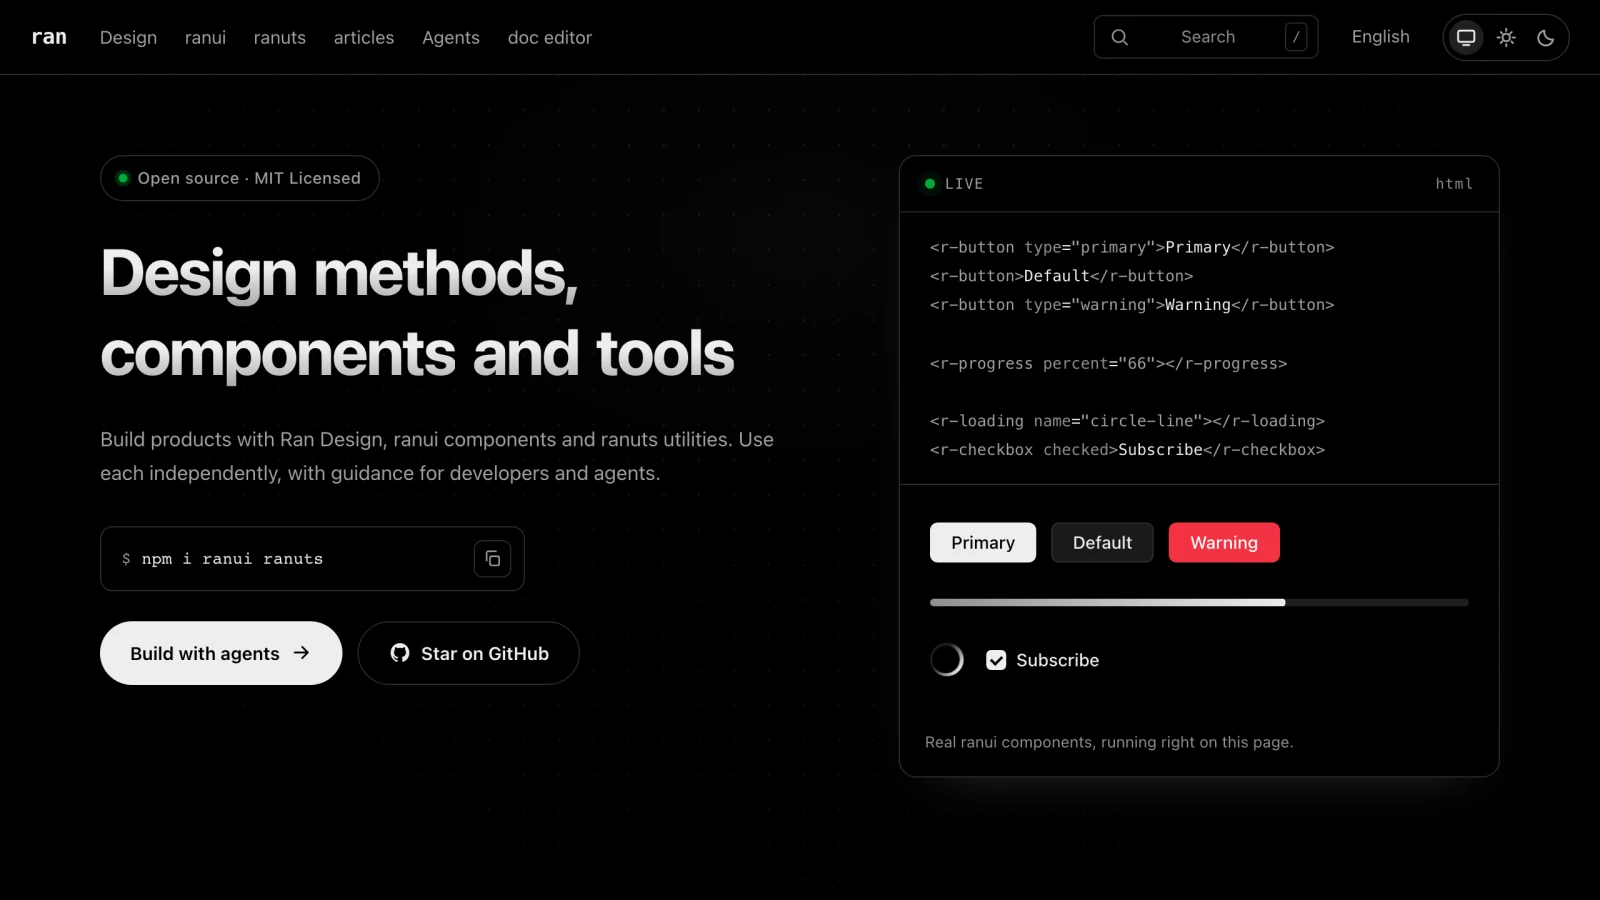
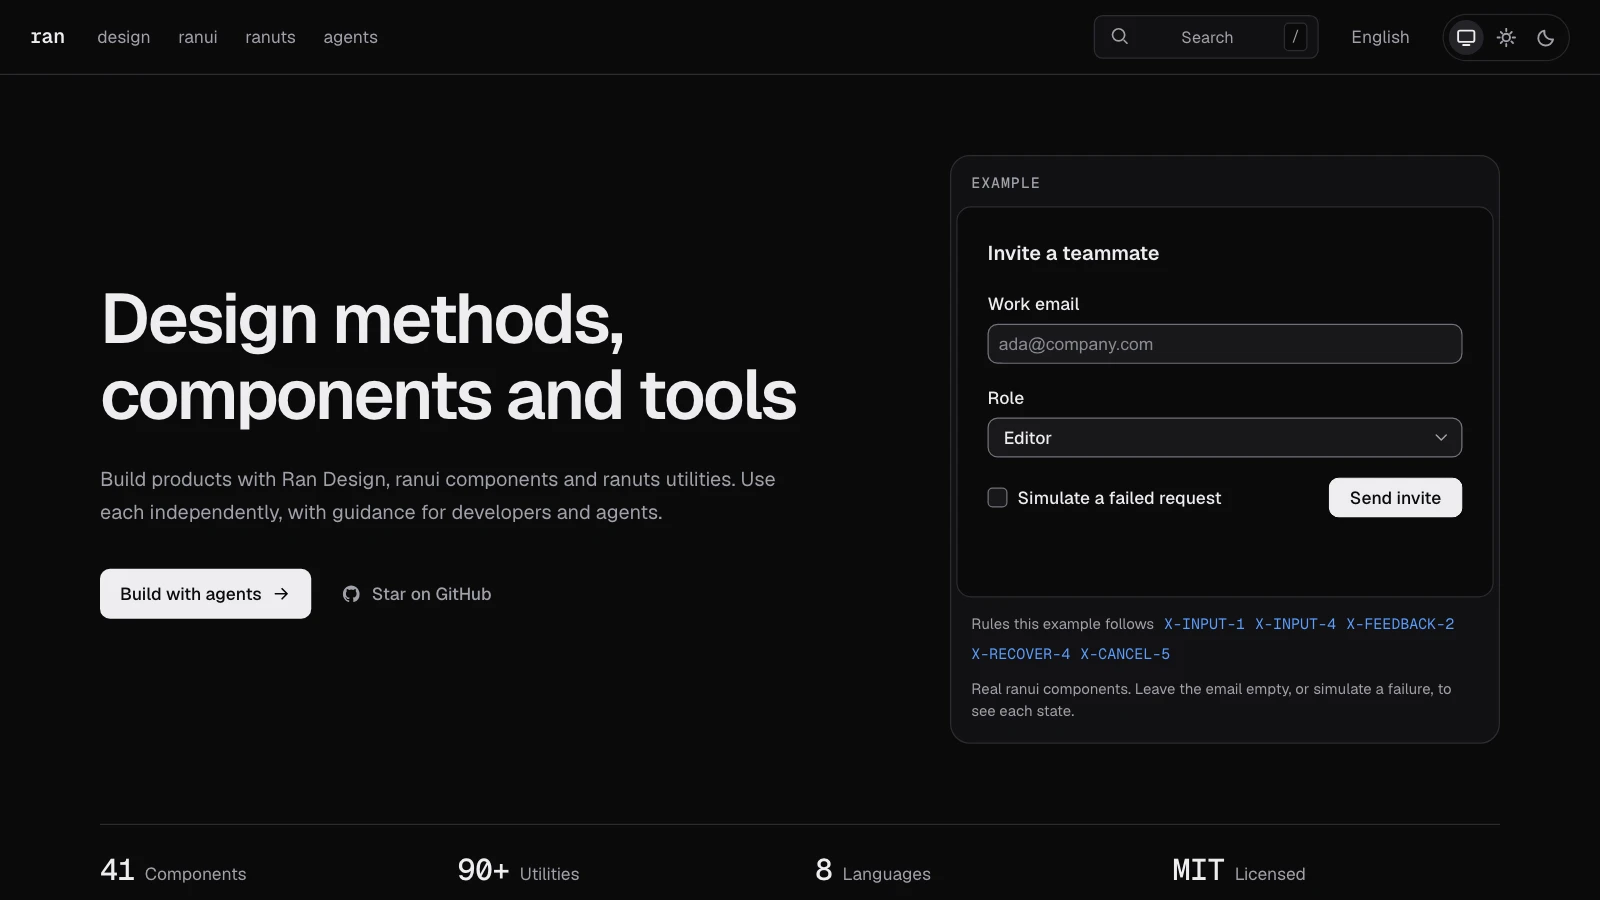
docs: refresh the README home screenshot (#482)
The light and dark captures showed the old landing (mixed-case nav and a
markup-beside-preview panel). They now show the current page, with its
live invite form, and the alt text in all eight READMEs describes it.

diff --git a/README.fa.md b/README.fa.md
@@ -28,7 +28,7 @@ ran سه بخش دارد که هر کدام جداگانه قابل استفاد
 <p align="center">
   <picture>
     <source media="(prefers-color-scheme: dark)" srcset="./.github/assets/readme-home-dark.webp">
-    <img width="800" src="./.github/assets/readme-home.webp" alt="صفحهٔ اصلی ran.chaxus.com: در سمت چپ نشانهگذاری ranui و در سمت راست پنلی زنده که همان دکمهها، نوار پیشرفت، نشانگر بارگذاری و چکباکس را نمایش میدهد">
+    <img width="800" src="./.github/assets/readme-home.webp" alt="صفحهٔ اصلی ran.chaxus.com: در سمت چپ عنوان و در سمت راست یک فرم واقعی ranui برای دعوت همتیمی، با فیلد ایمیل، انتخاب نقش، چکباکس و دکمهٔ ارسال">
   </picture>
 </p>
 

diff --git a/README.ja.md b/README.ja.md
@@ -28,7 +28,7 @@ ran は 3 つの部分からなり、それぞれ単独で使えます。**ranui
 <p align="center">
   <picture>
     <source media="(prefers-color-scheme: dark)" srcset="./.github/assets/readme-home-dark.webp">
-    <img width="800" src="./.github/assets/readme-home.webp" alt="ran.chaxus.com のトップページ：左に ranui のマークアップ、右のライブパネルに同じボタン、プログレスバー、ローディング、チェックボックスが描画されている">
+    <img width="800" src="./.github/assets/readme-home.webp" alt="ran.chaxus.com のトップページ：左に見出し、右に実際に動く ranui のフォーム「チームメイトを招待」があり、メール欄、役割の選択、チェックボックス、送信ボタンが並ぶ">
   </picture>
 </p>
 

diff --git a/README.pt.md b/README.pt.md
@@ -28,7 +28,7 @@ O ran tem três partes que podem ser usadas separadamente: **ranui**, componente
 <p align="center">
   <picture>
     <source media="(prefers-color-scheme: dark)" srcset="./.github/assets/readme-home-dark.webp">
-    <img width="800" src="./.github/assets/readme-home.webp" alt="A página inicial de ran.chaxus.com: a marcação do ranui à esquerda de um painel ao vivo que mostra os mesmos botões, barra de progresso, indicador de carregamento e caixa de seleção">
+    <img width="800" src="./.github/assets/readme-home.webp" alt="A página inicial de ran.chaxus.com: o título à esquerda e, à direita, um formulário do ranui que funciona para convidar um colega, com campo de e-mail, seletor de função, caixa de seleção e botão de envio">
   </picture>
 </p>
 

diff --git a/README.ko.md b/README.ko.md
@@ -28,7 +28,7 @@ ran은 각각 따로 쓸 수 있는 세 부분으로 이루어져 있습니다. 
 <p align="center">
   <picture>
     <source media="(prefers-color-scheme: dark)" srcset="./.github/assets/readme-home-dark.webp">
-    <img width="800" src="./.github/assets/readme-home.webp" alt="ran.chaxus.com 첫 화면: 왼쪽에는 ranui 마크업, 오른쪽 라이브 패널에는 같은 버튼, 진행 막대, 로딩 표시, 체크박스가 렌더링되어 있다">
+    <img width="800" src="./.github/assets/readme-home.webp" alt="ran.chaxus.com 첫 화면: 왼쪽에는 제목, 오른쪽에는 실제로 동작하는 ranui 양식 '팀원 초대'가 있으며 이메일 입력란, 역할 선택, 체크박스, 보내기 버튼으로 이루어져 있다">
   </picture>
 </p>
 

diff --git a/README.es.md b/README.es.md
@@ -28,7 +28,7 @@ ran tiene tres partes que se pueden usar por separado: **ranui**, componentes de
 <p align="center">
   <picture>
     <source media="(prefers-color-scheme: dark)" srcset="./.github/assets/readme-home-dark.webp">
-    <img width="800" src="./.github/assets/readme-home.webp" alt="La página de inicio de ran.chaxus.com: el marcado de ranui a la izquierda de un panel en vivo que muestra los mismos botones, barra de progreso, indicador de carga y casilla">
+    <img width="800" src="./.github/assets/readme-home.webp" alt="La página de inicio de ran.chaxus.com: el titular a la izquierda y, a la derecha, un formulario de ranui que funciona para invitar a un compañero, con campo de correo, selector de rol, casilla y botón de envío">
   </picture>
 </p>
 

diff --git a/README.de.md b/README.de.md
@@ -28,7 +28,7 @@ ran besteht aus drei Teilen, die sich einzeln nutzen lassen: **ranui**, UI-Kompo
 <p align="center">
   <picture>
     <source media="(prefers-color-scheme: dark)" srcset="./.github/assets/readme-home-dark.webp">
-    <img width="800" src="./.github/assets/readme-home.webp" alt="Die Startseite von ran.chaxus.com: links ranui-Markup, rechts ein Live-Panel, das dieselben Buttons, Fortschrittsbalken, Ladeanzeige und Checkbox darstellt">
+    <img width="800" src="./.github/assets/readme-home.webp" alt="Die Startseite von ran.chaxus.com: links die Überschrift, rechts ein funktionierendes ranui-Formular zum Einladen eines Teammitglieds mit E-Mail-Feld, Rollenauswahl, Checkbox und Senden-Button">
   </picture>
 </p>
 

diff --git a/README.md b/README.md
@@ -28,7 +28,7 @@ ran has three parts, each usable on its own: **ranui**, UI components built as n
 <p align="center">
   <picture>
     <source media="(prefers-color-scheme: dark)" srcset="./.github/assets/readme-home-dark.webp">
-    <img width="800" src="./.github/assets/readme-home.webp" alt="The ran.chaxus.com home page: ranui markup on the left of a live panel rendering the same buttons, progress bar, spinner and checkbox">
+    <img width="800" src="./.github/assets/readme-home.webp" alt="The ran.chaxus.com home page: the headline on the left, and on the right a working ranui form for inviting a teammate, with an email field, a role select, a checkbox and a send button">
   </picture>
 </p>
 

diff --git a/README.zh-CN.md b/README.zh-CN.md
@@ -28,7 +28,7 @@ ran 由三部分组成，每部分都能单独使用：**ranui** 是基于原生
 <p align="center">
   <picture>
     <source media="(prefers-color-scheme: dark)" srcset="./.github/assets/readme-home-dark.webp">
-    <img width="800" src="./.github/assets/readme-home.webp" alt="ran.chaxus.com 首页：左边是 ranui 的标签写法，右边的实时面板渲染出对应的按钮、进度条、加载动画和复选框">
+    <img width="800" src="./.github/assets/readme-home.webp" alt="ran.chaxus.com 首页：左边是标题，右边是一个真实可用的 ranui 表单「邀请成员」，有邮箱输入框、角色下拉框、复选框和发送按钮">
   </picture>
 </p>
 
